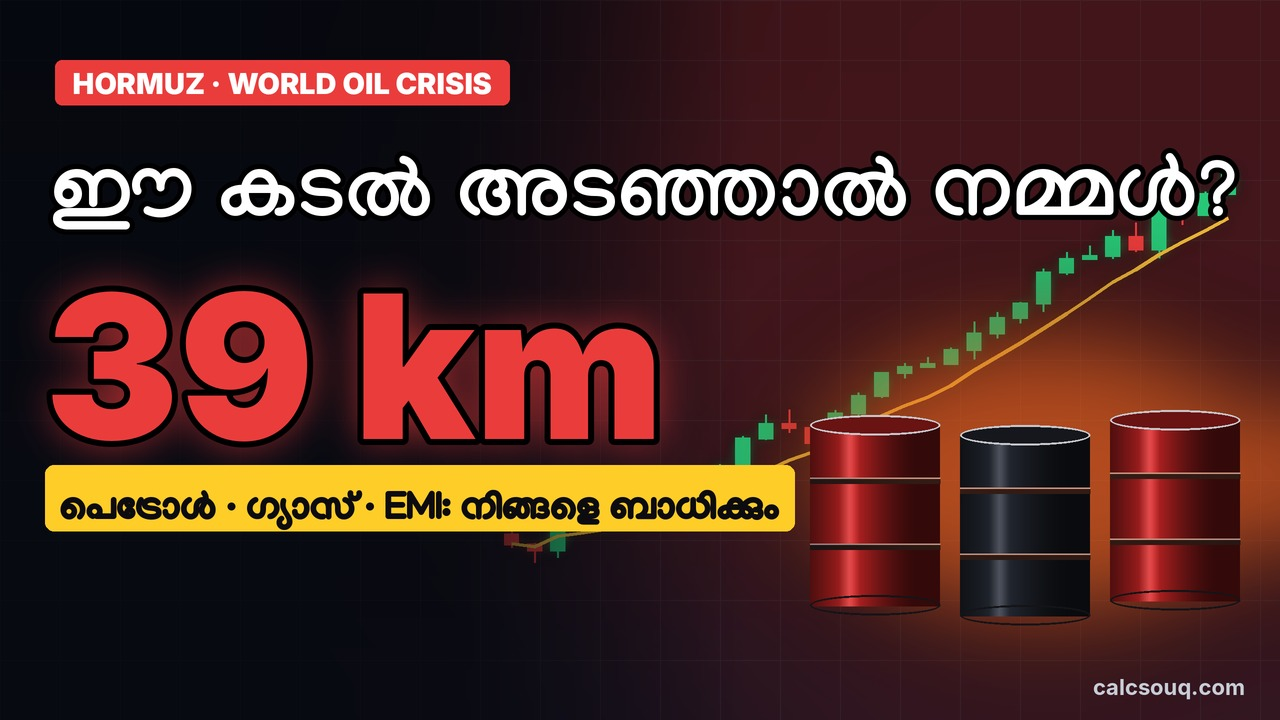
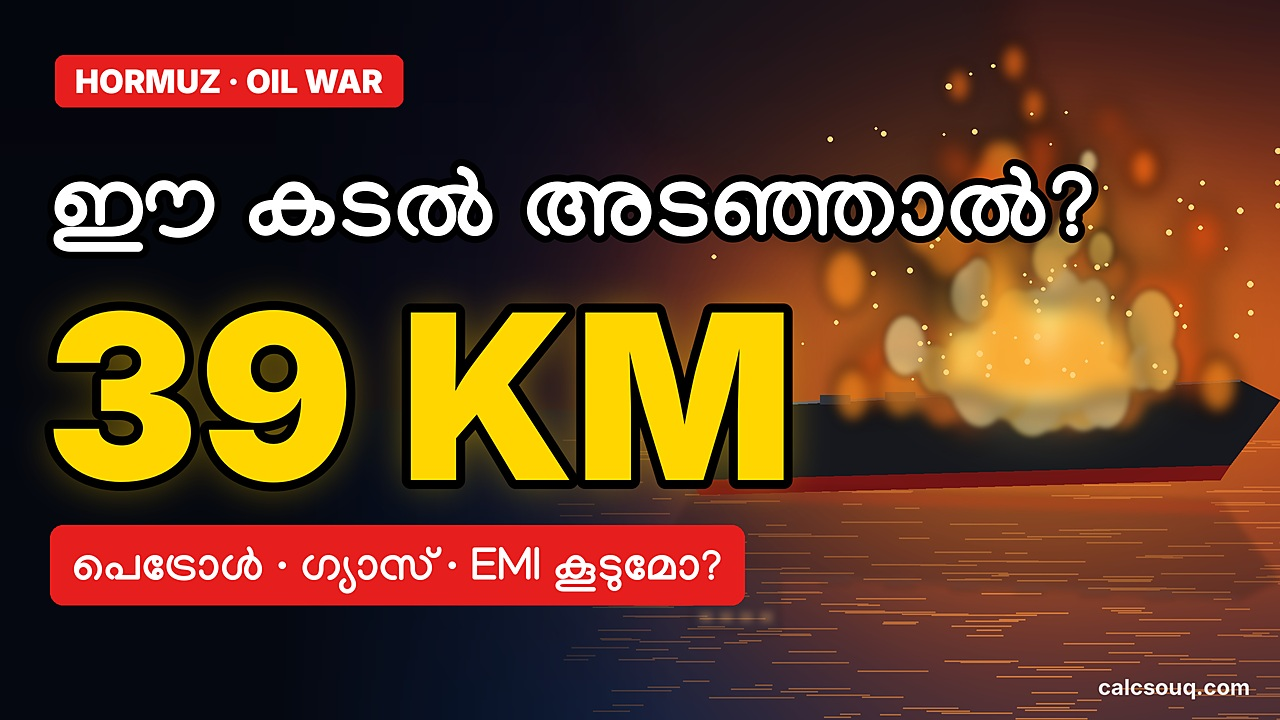
Hormuz thumbnail: burning tanker at night, huge 39 KM
Claude-Session: https://claude.ai/code/session_01ScU7UzYLwjixLH6zakpgin

diff --git a/build/yt_thumb_hormuz.py b/build/yt_thumb_hormuz.py
@@ -1,0 +1,96 @@
+"""High-contrast thumbnail for the Malayalam Hormuz video: burning tanker at night + huge text.
+Usage: python3 yt_thumb_hormuz.py out.jpg
+"""
+import sys, os, math, random
+from PIL import Image, ImageDraw, ImageFilter, ImageFont
+HERE = os.path.dirname(os.path.abspath(__file__))
+sys.path.insert(0, HERE)
+from reel_fx import F
+W, H = 2560, 1440
+def MF(s): return ImageFont.truetype(os.path.join(HERE, "fonts/Manjari-Bold.ttf"), int(s), layout_engine=ImageFont.Layout.RAQM)
+rnd = random.Random(11)
+
+img = Image.new("RGB", (W, H)); d = ImageDraw.Draw(img)
+for y in range(H):  # night sky to dark sea
+    p = y / H
+    col = (int(8 + 20 * p), int(10 + 14 * p), int(26 + 30 * p)) if y < 820 else (int(6 + 8 * p), int(14 + 18 * p), int(30 + 36 * p))
+    d.line([(0, y), (W, y)], fill=col)
+# fire glow on the horizon (right)
+glow = Image.new("L", (W, H), 0); ImageDraw.Draw(glow).ellipse([1300, 200, 2900, 1300], fill=255)
+img.paste((255, 90, 20), (0, 0), glow.filter(ImageFilter.GaussianBlur(260)).point(lambda v: int(v * .75)))
+glow2 = Image.new("L", (W, H), 0); ImageDraw.Draw(glow2).ellipse([1600, 380, 2500, 1000], fill=255)
+img.paste((255, 170, 40), (0, 0), glow2.filter(ImageFilter.GaussianBlur(160)).point(lambda v: int(v * .55)))
+# sea shimmer
+sea = Image.new("RGBA", (W, H), (0, 0, 0, 0)); sd = ImageDraw.Draw(sea)
+for k in range(260):
+    y = 860 + rnd.random() * 580; x = 1100 + rnd.random() * 1460; w = 30 + rnd.random() * 140
+    a = int(40 + 120 * max(0, 1 - abs(x - 2000) / 900))
+    sd.line([(x, y), (x + w, y)], fill=(255, 150, 60, a), width=3)
+img.paste(sea, (0, 0), sea)
+
+# smoke plume
+sm = Image.new("RGBA", (W, H), (0, 0, 0, 0)); g = ImageDraw.Draw(sm)
+for k in range(40):
+    t = k / 40; x = 2100 - 520 * t + rnd.gauss(0, 30); y = 640 - 620 * t; r = 90 + 260 * t
+    g.ellipse([x - r, y - r, x + r, y + r], fill=(22, 20, 24, int(230 - 120 * t)))
+img.paste(sm.filter(ImageFilter.GaussianBlur(40)), (0, 0), sm.filter(ImageFilter.GaussianBlur(40)))
+
+# tanker (large, slightly angled perspective)
+tk = Image.new("RGBA", (W, H), (0, 0, 0, 0)); t2 = ImageDraw.Draw(tk)
+hull = [(1300, 820), (2480, 760), (2560, 800), (2460, 930), (1380, 960)]
+t2.polygon(hull, fill=(22, 24, 30, 255))
+t2.polygon([(1380, 960), (2460, 930), (2440, 960), (1400, 990)], fill=(120, 20, 20, 255))
+t2.line([(1300, 820), (2480, 760)], fill=(90, 95, 110, 255), width=6)
+t2.polygon([(1380, 700), (1560, 690), (1560, 818), (1380, 826)], fill=(40, 44, 54, 255))  # bridge
+for i in range(4): t2.rectangle([1400 + i * 40, 715, 1424 + i * 40, 735], fill=(255, 200, 120, 255))
+for i in range(6): t2.rectangle([1640 + i * 130, 790 - i * 6, 1700 + i * 130, 808 - i * 6], fill=(50, 54, 64, 255))
+img.paste(tk, (0, 0), tk)
+# reflection
+rf = tk.transpose(Image.FLIP_TOP_BOTTOM).crop((0, H - 1000, W, H - 1000 + 440))
+rfl = Image.new("RGBA", (W, H), (0, 0, 0, 0)); rfl.paste(rf, (0, 960)); a = rfl.split()[3].point(lambda v: int(v * .25))
+img.paste(rfl.convert("RGB").filter(ImageFilter.GaussianBlur(6)), (0, 0), a.filter(ImageFilter.GaussianBlur(6)))
+
+# fire on deck (organic, layered blurred blobs)
+for layer, (blur, cols, n, spread, hmax) in enumerate([(28, [(255, 80, 10)], 70, 170, 420), (14, [(255, 140, 30), (255, 110, 20)], 90, 130, 330), (6, [(255, 210, 90), (255, 240, 170)], 70, 90, 220)]):
+    fire = Image.new("RGBA", (W, H), (0, 0, 0, 0)); f2 = ImageDraw.Draw(fire)
+    for k in range(n):
+        x = 2080 + rnd.gauss(0, spread); hh = abs(rnd.gauss(0, hmax)); y = 790 - hh * rnd.random(); r = 26 + (1 - hh / (hmax * 2.5)) * 60 * rnd.random() + 10
+        f2.ellipse([x - r * .7, y - r, x + r * .7, y + r], fill=rnd.choice(cols) + (170,))
+    fb_ = fire.filter(ImageFilter.GaussianBlur(blur)); img.paste(fb_, (0, 0), fb_)
+fg = fire.filter(ImageFilter.GaussianBlur(90)); img.paste(fg, (0, 0), fg)
+core = Image.new("RGBA", (W, H), (0, 0, 0, 0)); cd_ = ImageDraw.Draw(core)
+cd_.ellipse([1900, 600, 2260, 820], fill=(255, 230, 120, 230)); cd_.ellipse([1980, 660, 2180, 800], fill=(255, 250, 220, 255))
+for k in range(14):  # flame tongues
+    x = 1920 + k * 26 + rnd.gauss(0, 10); hh = 160 + rnd.random() * 260
+    cd_.polygon([(x - 30, 790), (x + 30, 790), (x + rnd.gauss(0, 25), 790 - hh)], fill=(255, 170, 40, 200))
+cc = core.filter(ImageFilter.GaussianBlur(22)); img.paste(cc, (0, 0), cc)
+for k in range(90):  # sparks
+    x = 2080 + rnd.gauss(0, 260); y = 760 - abs(rnd.gauss(0, 260)); r = 2 + rnd.random() * 4
+    ImageDraw.Draw(img).ellipse([x - r, y - r, x + r, y + r], fill=(255, 210, 120))
+
+# left dark gradient for text
+sh = Image.new("L", (W, H), 0); s2 = ImageDraw.Draw(sh)
+for x in range(W): s2.line([(x, 0), (x, H)], fill=int(235 * max(0, min(1, (1350 - x) / 800))))
+img = Image.composite(Image.new("RGB", (W, H), (4, 6, 12)), img, sh); d = ImageDraw.Draw(img)
+
+def stroked(xy, text, font, fill, sw=14, anchor="ls", sc=(0, 0, 0)):
+    d.text(xy, text, font=font, fill=fill, anchor=anchor, stroke_width=sw, stroke_fill=sc)
+
+# tag
+f = F("k", 64); tw = d.textlength("HORMUZ · OIL WAR", font=f)
+d.rounded_rectangle([110, 110, 110 + tw + 80, 214], 18, fill=(230, 30, 30)); d.text((150, 163), "HORMUZ · OIL WAR", font=f, fill=(255, 255, 255), anchor="lm")
+# line 1 Malayalam
+stroked((100, 470), "ഈ കടൽ അടഞ്ഞാൽ?", MF(200), (255, 255, 255), 14)
+# huge number with glow
+big = "39 KM"; fb = F("k", 460)
+gl = Image.new("L", (W, H), 0); ImageDraw.Draw(gl).text((90, 960), big, font=fb, fill=255, anchor="ls")
+img.paste((255, 200, 0), (0, 0), gl.filter(ImageFilter.GaussianBlur(40)).point(lambda v: int(v * .55))); d = ImageDraw.Draw(img)
+stroked((90, 960), big, fb, (255, 214, 0), 18)
+# bottom strip
+fs = MF(92); txt = "പെട്രോൾ · ഗ്യാസ് · EMI കൂടുമോ?"; tw = d.textlength(txt, font=fs)
+d.rounded_rectangle([100, 1050, 100 + tw + 90, 1210], 26, fill=(230, 30, 30))
+d.text((145, 1145), txt, font=fs, fill=(255, 255, 255), anchor="lm")
+d.text((W - 60, H - 50), "calcsouq.com", font=F("b", 44), fill=(235, 235, 240), anchor="rs")
+
+out = img.resize((1280, 720), Image.LANCZOS).filter(ImageFilter.UnsharpMask(1.2, 60, 2))
+out.save(sys.argv[1] if len(sys.argv) > 1 else "/tmp/thumb.jpg", quality=94); print("ok")
